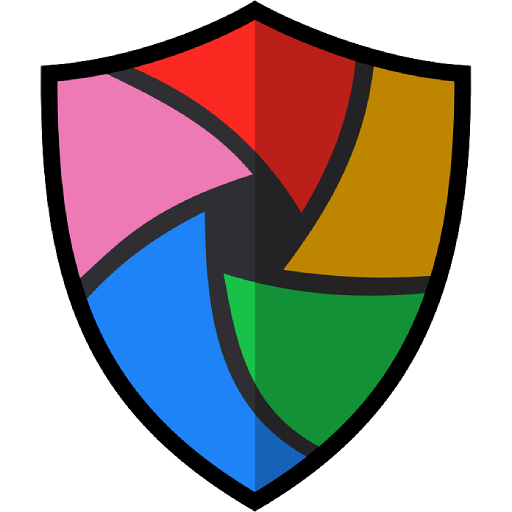
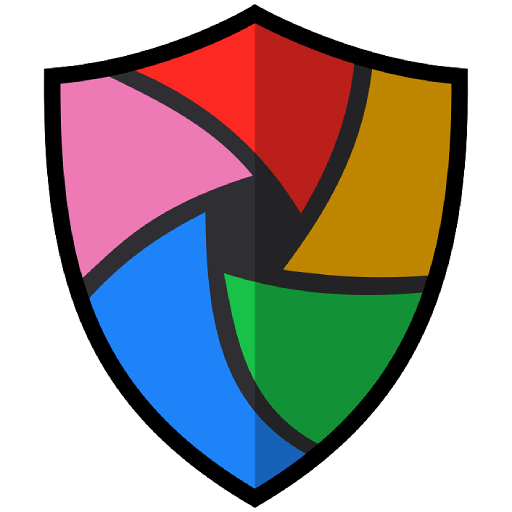
Update docs

diff --git a/README.md b/README.md
@@ -5,7 +5,7 @@ Share your Immich photos and albums in a safe way without exposing your Immich i
 Setup takes less than a minute, and you never need to touch this again as all of your sharing stays managed within Immich.
 
 <p align="center" width="100%">
-<img src="docs/shield.png" width="180" height="180">
+<img src="docs/shield.png" width="200" height="200">
 </p>
 
 ### Table of Contents
